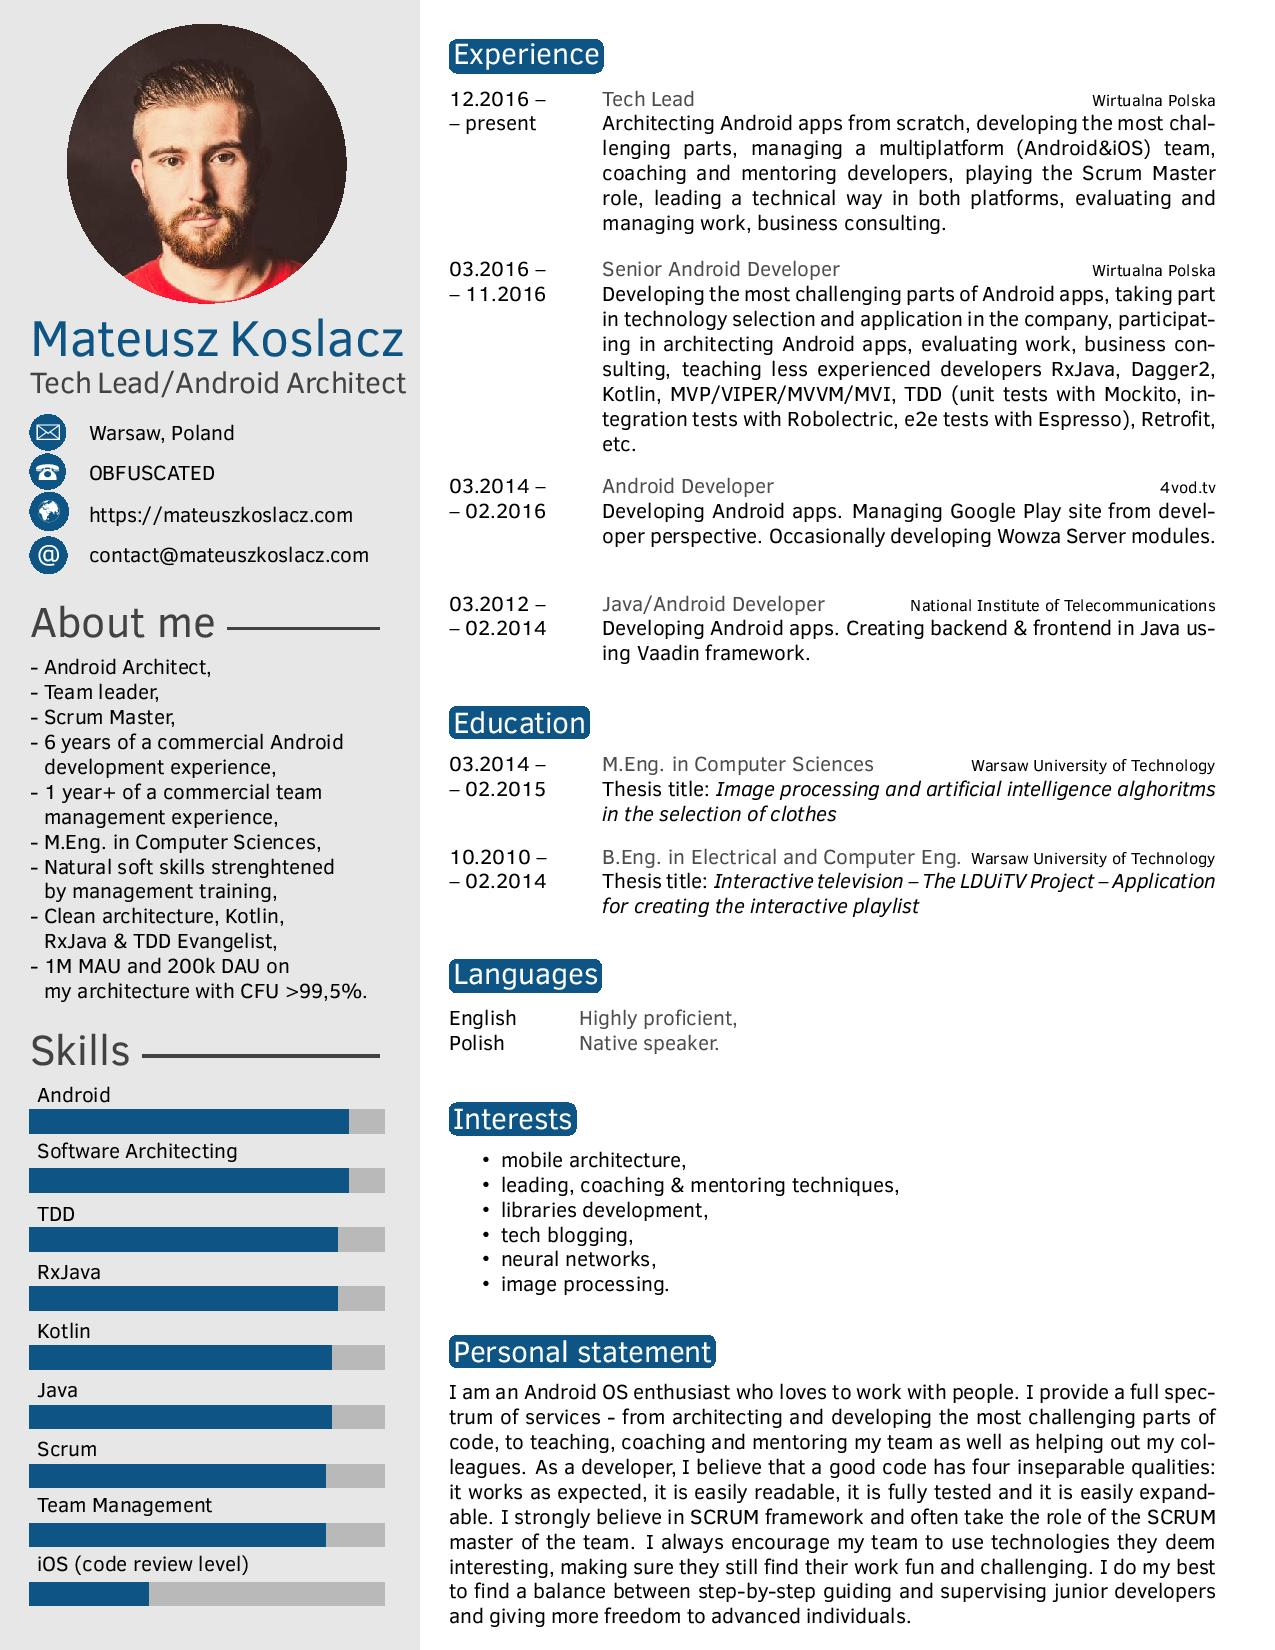
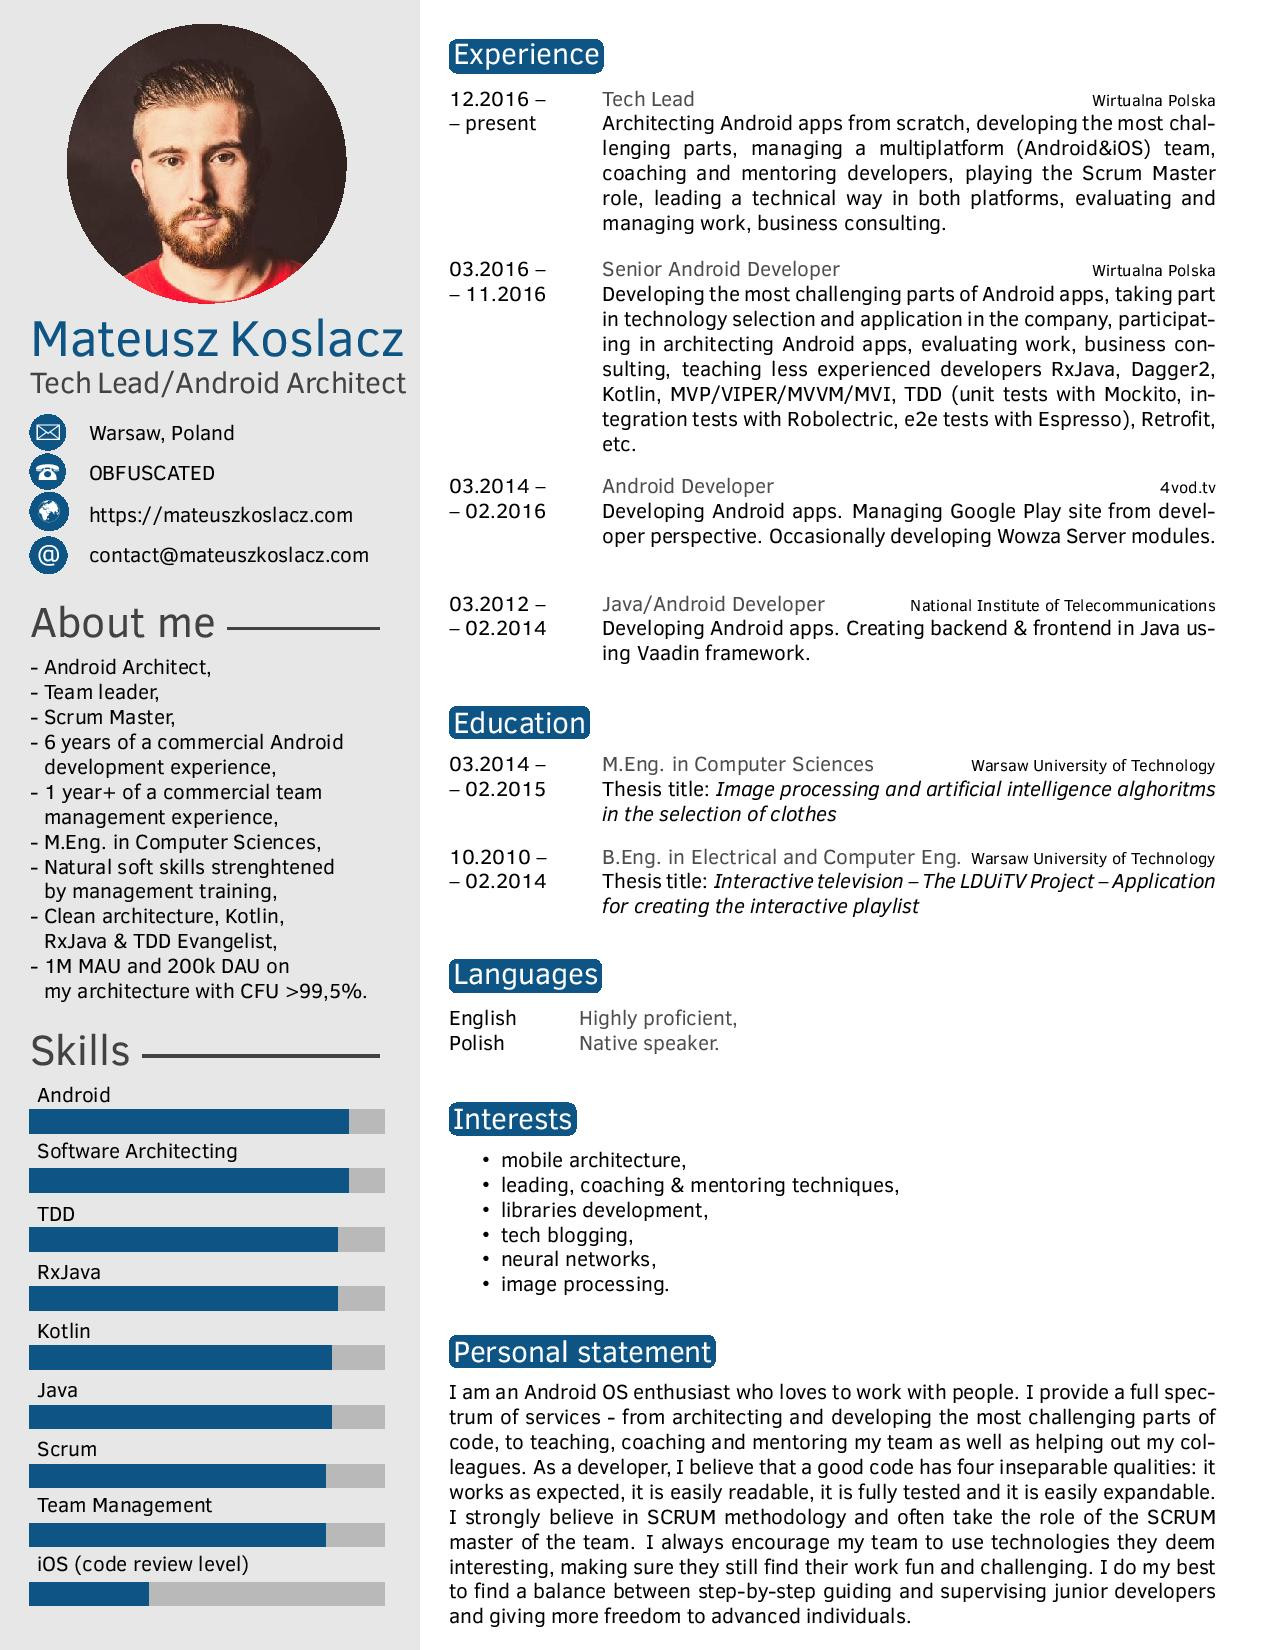
Change "SCRUM framework" to "SCRUM methodology" & update binaries

Changed region(s): [[0.3365, 0.8655, 0.9482, 0.9273]]

diff --git a/mateusz_koslacz_cv.tex b/mateusz_koslacz_cv.tex
@@ -150,7 +150,7 @@
 
 \section{Personal statement}
 
-I am an Android OS enthusiast who loves to work with people. I provide a full spectrum of services - from architecting and developing the most challenging parts of code, to teaching, coaching and mentoring my team as well as helping out my colleagues. As a developer, I believe that a good code has four inseparable qualities: it works as expected, it is easily readable, it is fully tested and it is easily expandable. I strongly believe in SCRUM framework and often take the role of the SCRUM master of the team. I always encourage my team to use technologies they deem interesting, making sure they still find their work fun and challenging. I do my best to find a balance between step-by-step guiding and supervising junior developers and giving more freedom to advanced individuals.
+I am an Android OS enthusiast who loves to work with people. I provide a full spectrum of services - from architecting and developing the most challenging parts of code, to teaching, coaching and mentoring my team as well as helping out my colleagues. As a developer, I believe that a good code has four inseparable qualities: it works as expected, it is easily readable, it is fully tested and it is easily expandable. I strongly believe in SCRUM methodology and often take the role of the SCRUM master of the team. I always encourage my team to use technologies they deem interesting, making sure they still find their work fun and challenging. I do my best to find a balance between step-by-step guiding and supervising junior developers and giving more freedom to advanced individuals.
 \end{document}
 
 % ## Extras
